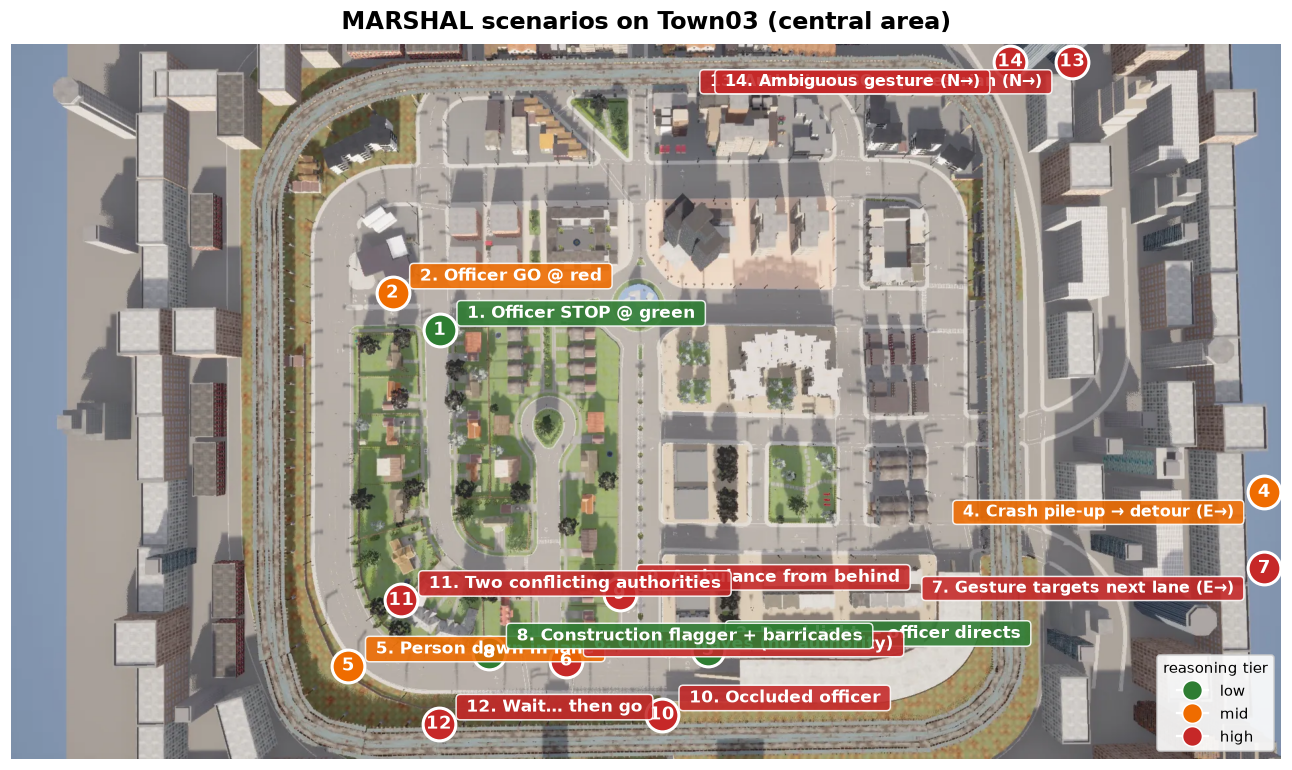
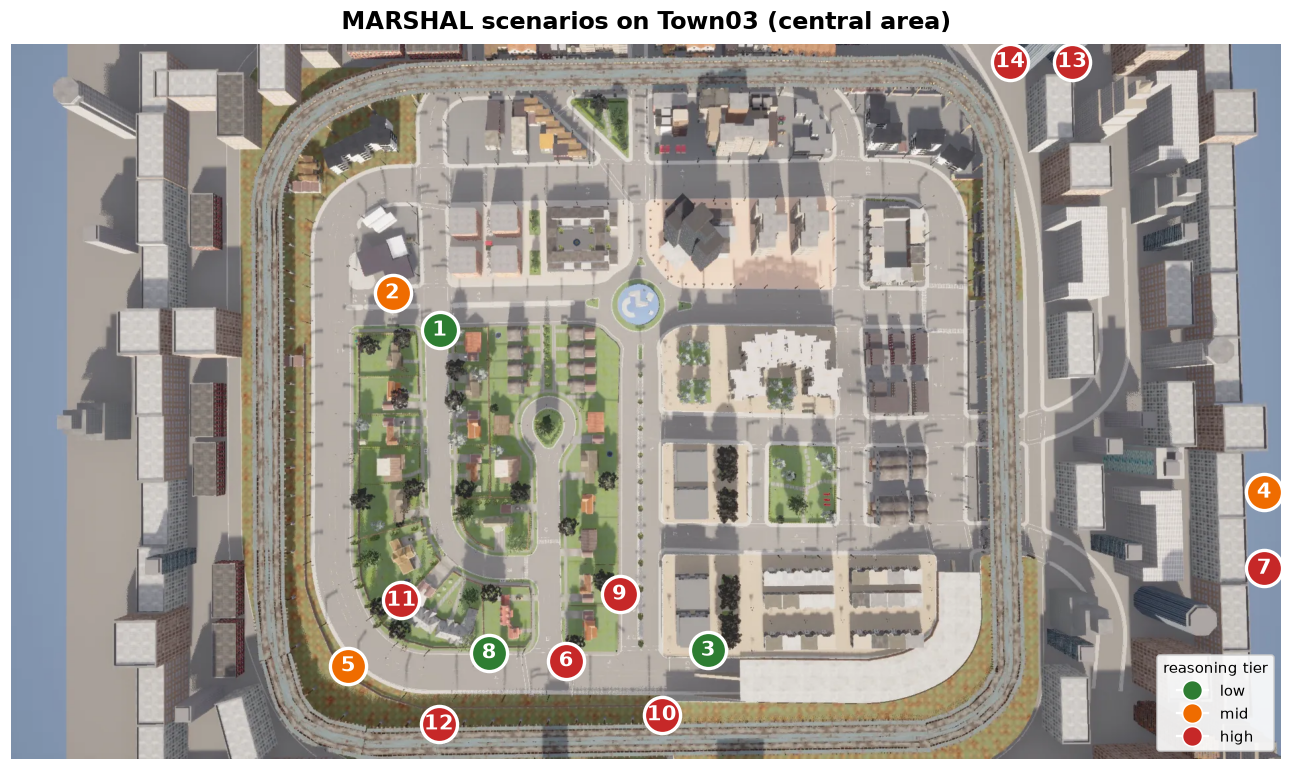
Annotated aerial: numbers only (captions removed)
The on-image captions overlapped and got clipped. Keep just the tier-coloured
numbered markers; the descriptions live in the scenario table below, which uses
the same 1-14 numbering.

diff --git a/README.md b/README.md
@@ -39,10 +39,11 @@ episode:
 
 ![Lab-logo landmarks on the Town03 fountain](docs/figures/fountain_logos.png)
 
-Where each scenario plays out, overlaid on the real map (the aerial frames the
-central block; the four scenarios further east/north are edge-marked with `→`):
+Where each scenario plays out, overlaid on the real map. Markers are **numbered
+to match the scenario table below** (the aerial frames the central block; the
+four scenarios further east/north are clamped to the frame edge):
 
-![MARSHAL scenarios annotated on the Town03 aerial](docs/figures/scenario_map_annotated.png)
+![MARSHAL scenarios numbered on the Town03 aerial](docs/figures/scenario_map_annotated.png)
 
 ### The 14 scenarios
 